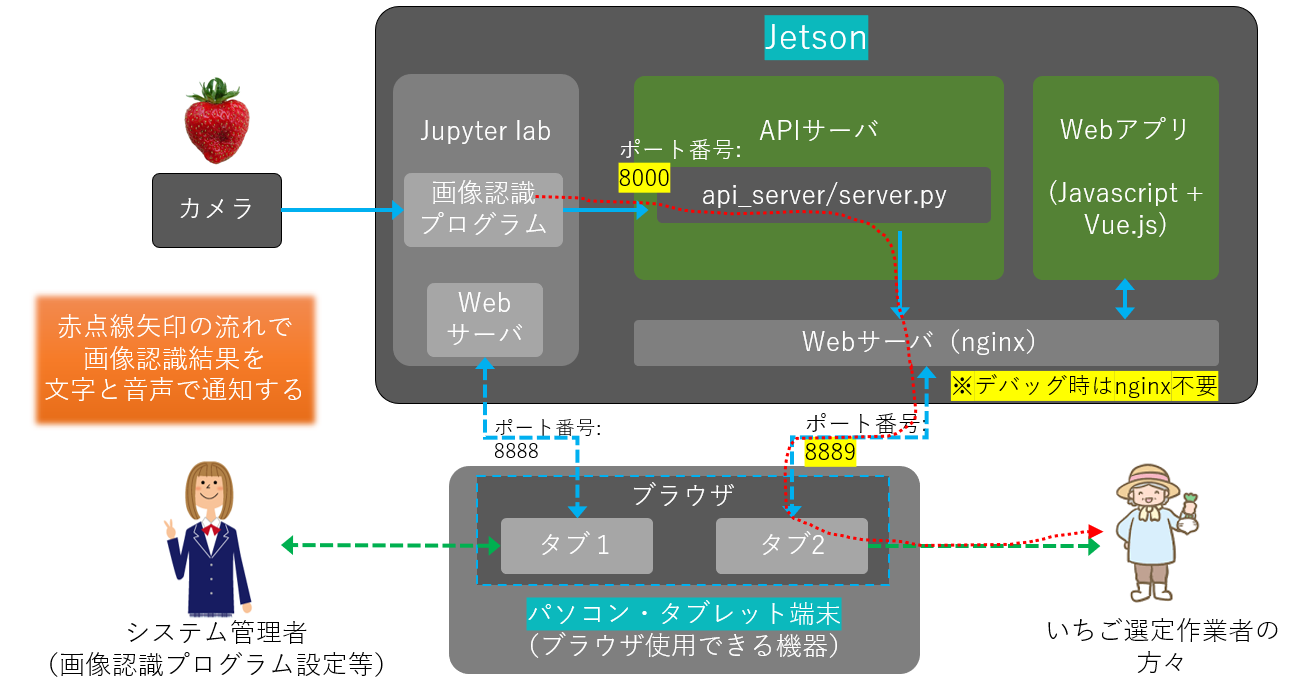
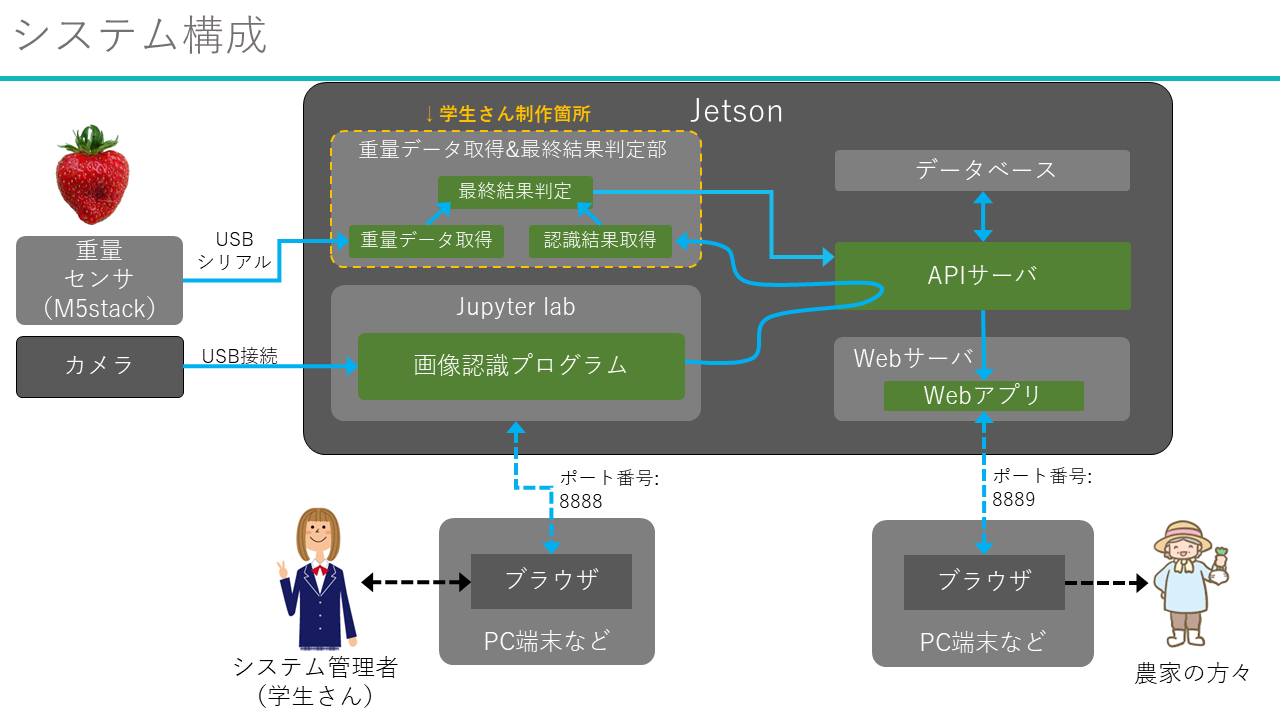
README更新

diff --git a/README.md b/README.md
@@ -4,10 +4,14 @@
 
 ---
 ## システム概要
+---
+![アプリ動作例](docs/movie.gif) 
+
+---
 ![システム概要図](docs/system_overview.png) 
 
 ---
-![アプリ動作例](docs/movie.gif) 
+![シーケンス図](docs/system_seq.png) 
 
 
 ---
@@ -74,6 +78,15 @@ npm run dev
 ブラウザを開き、以下URLを打ち込む。
 [http://localhost:8889](http://localhost:8889{:target="_blank"})
 
+### 最終結果判定用プログラム実行
+
+以下コマンドを打つことで、最終結果判定用プログラムが動く。
+このプログラムでは、重量センサから取得した重量データと画像認識結果を用いて、最終的ないちご選別結果をwebsocket通信によりwebアプリへ定期送信を行う。
+```sh
+cd ichigo_web/ichigo_judge
+pip3 install -r requirements.txt
+python3 main.py
+```
 ---
 
 ### 動作テスト（API使用方法）
@@ -117,9 +130,8 @@ http {
 
         location /ichigo_websocket {
             proxy_pass http://127.0.0.1:8000/ichigo_websocket;
-            proxy_set_header X-Forwarded-For $proxy_add_x_forwarded_for;
-            proxy_set_header Host $host;
             proxy_http_version 1.1;
+            proxy_set_header Host $host;
             proxy_set_header Upgrade $http_upgrade;
             proxy_set_header Connection "upgrade";
         }
